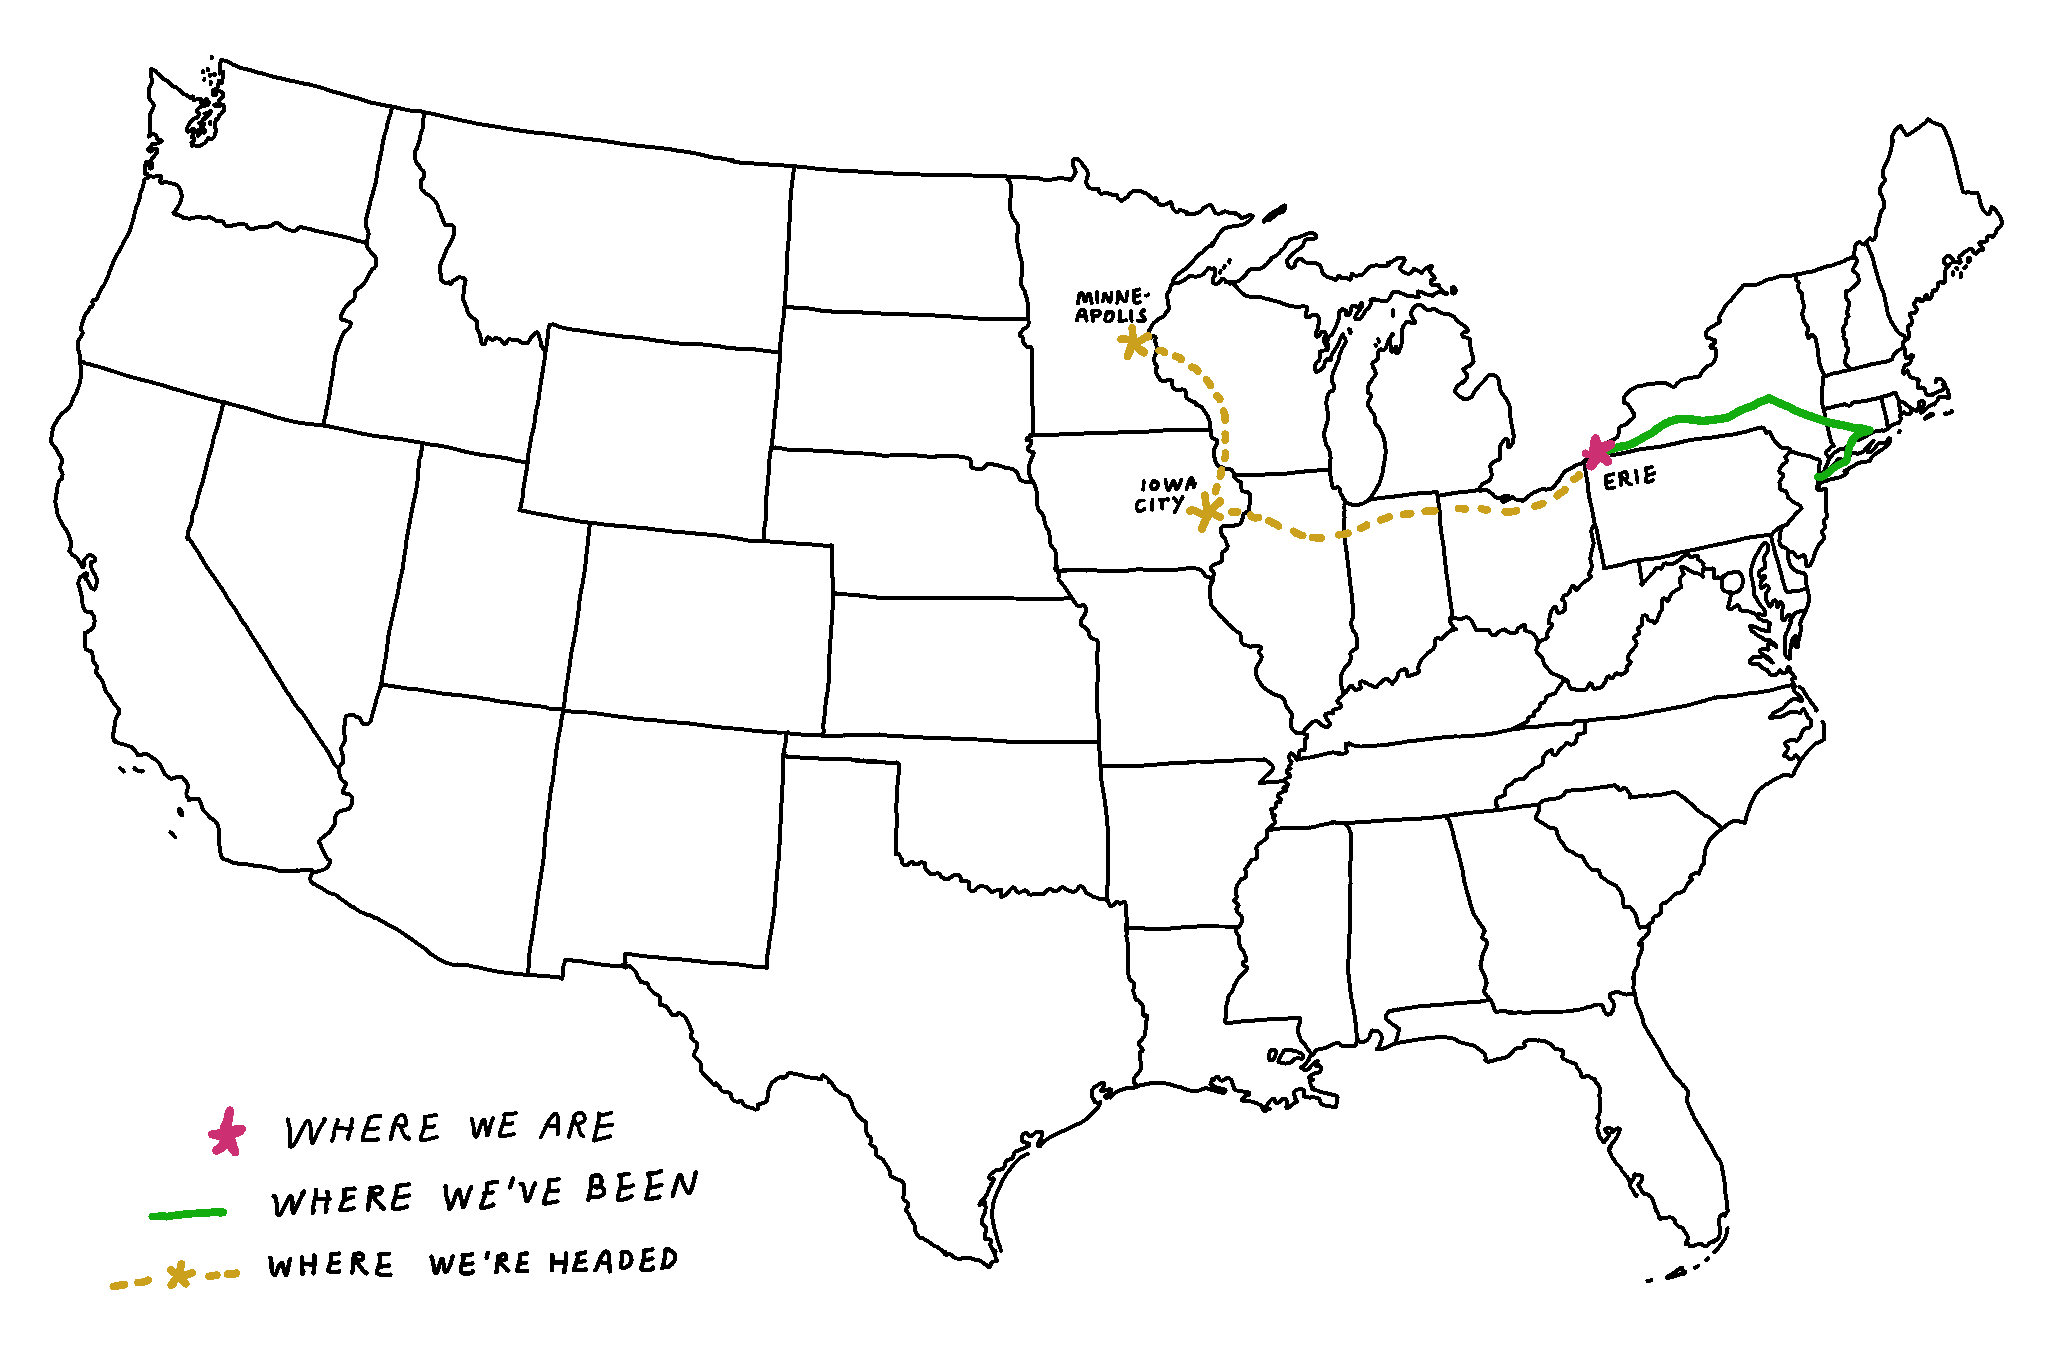
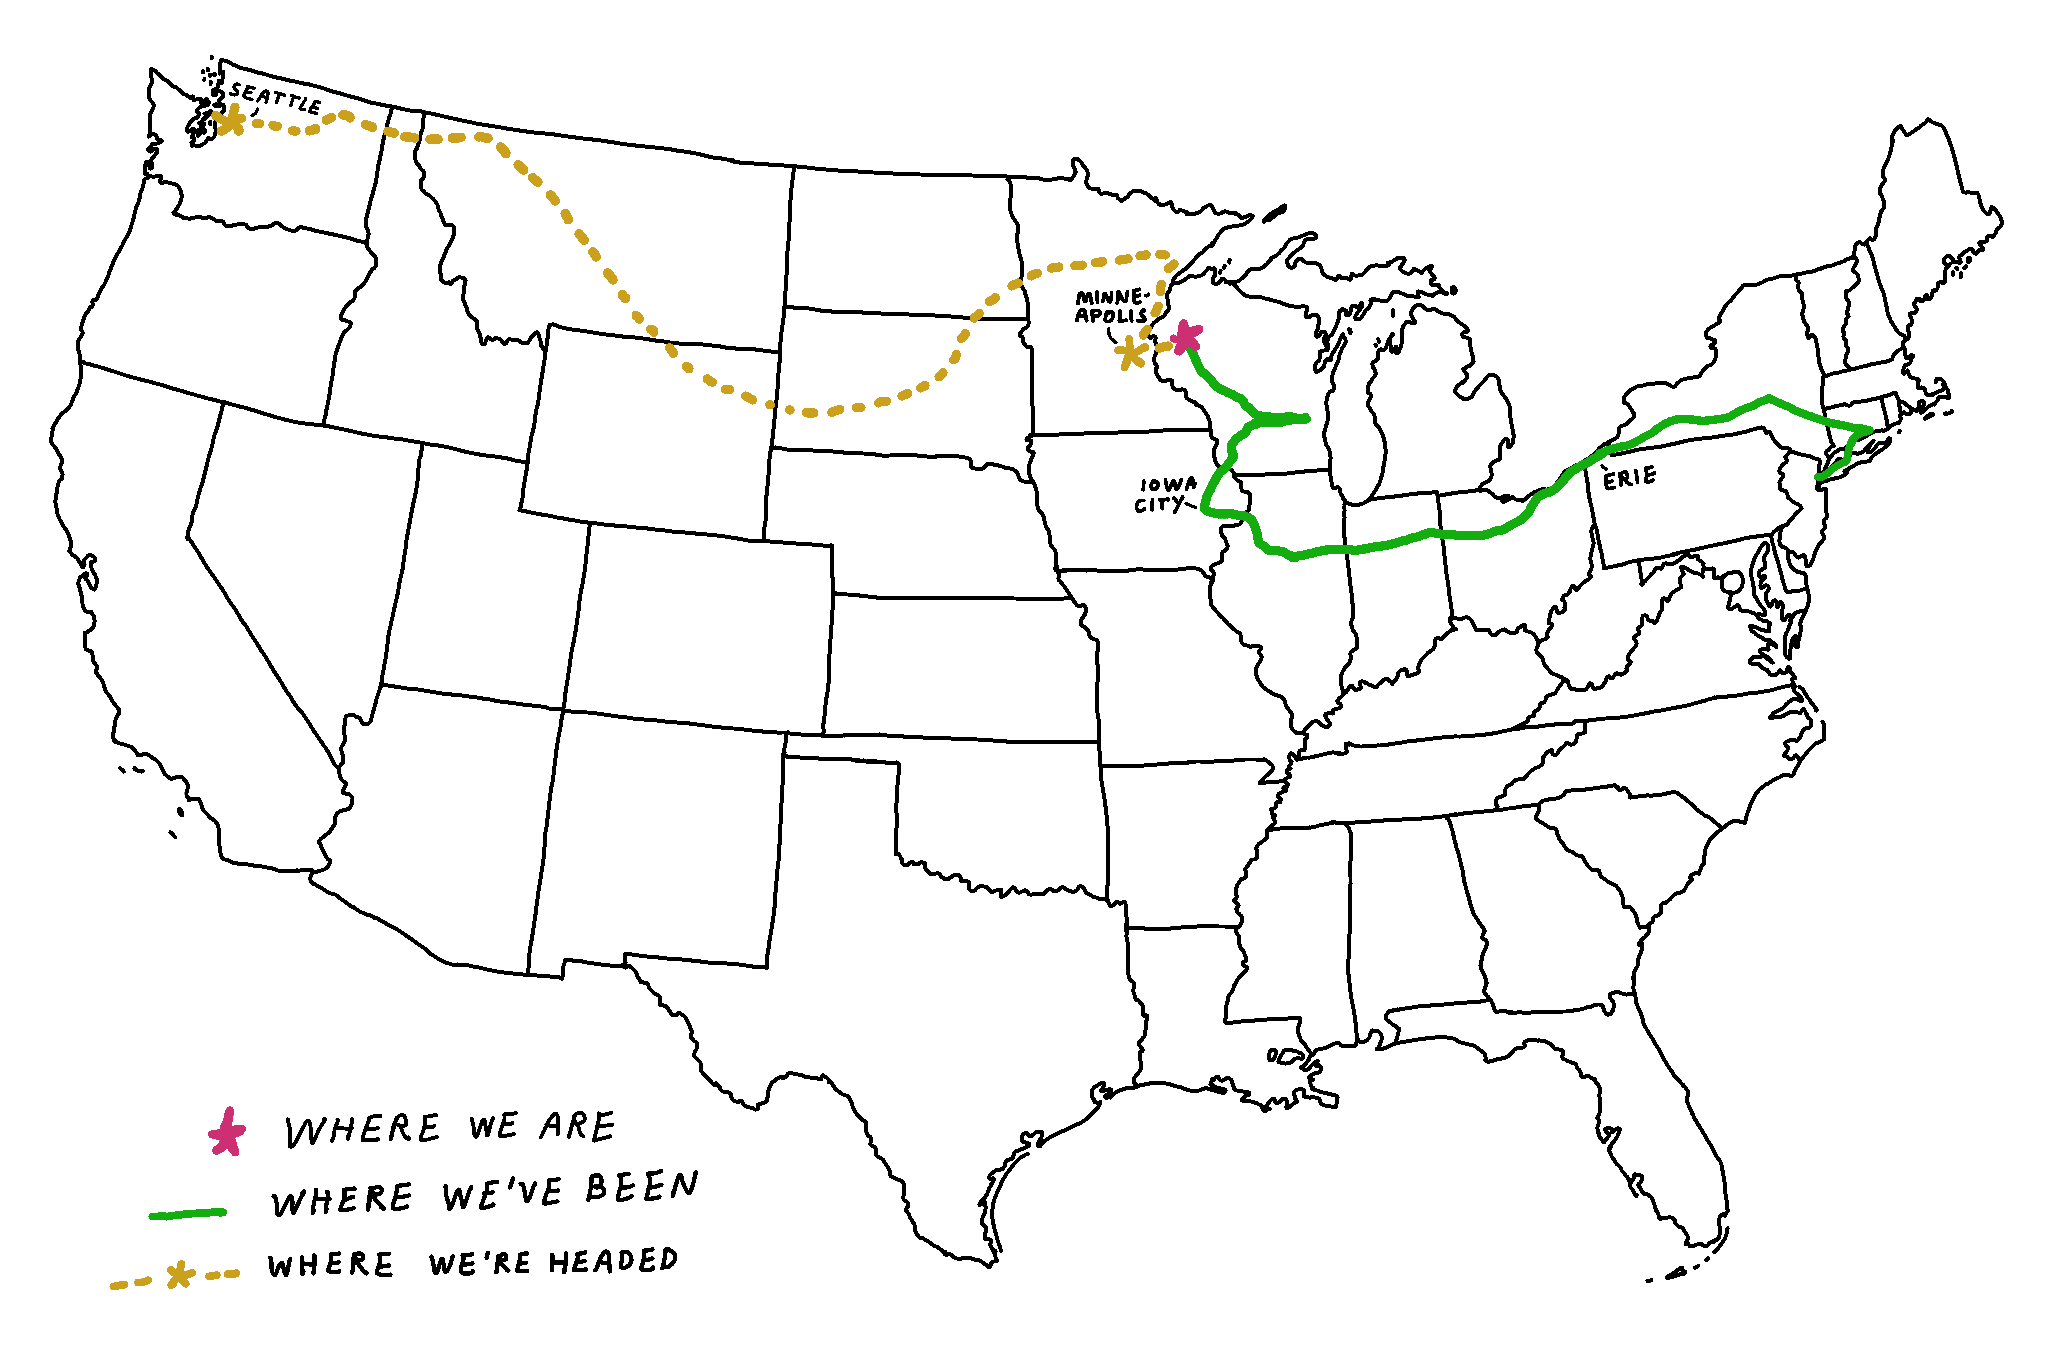
updated map and schedule

diff --git a/map/index.html b/map/index.html
@@ -71,20 +71,41 @@
         <li>
           <b>2023 June 18</b> - Drove to Erie, PA (141 miles)
         </li>
+        <li>
+          <b>2023 June 25</b> - Drove to Lima, OH (268 miles)
+        </li>
+        <li>
+          <b>2023 June 25</b> - Drove to Hudson, IL (294 miles)
+        </li>
+        <li>
+          <b>2023 June 25</b> - Drove to Iowa City, IL (195 miles)
+        </li>
+        <li>
+          <b>2023 July 2</b> - Drove to Cassville, WI (128 miles)
+        </li>
+        <li>
+          <b>2023 July 5</b> - Drove to Spring Green, WI (74 miles)
+        </li>
+        <li>
+          <b>2023 July 6</b> - Drove to Menomonee Falls, WI (112 miles)
+        </li>
+        <li>
+          <b>2023 July 10</b> - Drove to Cumberland, WI (306 miles)
+        </li>
       </ul>
 
       <p>
-        Total miles traveled: <b>668</b>
+        Total miles traveled: <b>2045</b>
         <br />
-        Trip duration so far: <b>20 days</b>
+        Trip duration so far: <b>47 days</b>
         <br />
-        Average miles traveled per day: <b>33.4</b>
+        Average miles traveled per day: <b>43.5</b>
       </p>
 
     </main>
 
     <footer>
-      Last updated: June 19, 2023
+      Last updated: July 16, 2023
     </footer>
 
   </div>

diff --git a/index.html b/index.html
@@ -84,7 +84,16 @@
           <b>2023 September 16</b> - Meetup: Video Mixer at <a href="https://synthlibraryportland.com/" target="_blank">Synth Library Portland</a>, Portland, OR
         </li>
         <li>
-          <b>2023 October 6-8</b> (exact date tbd) - Workshop: Intro to Live Visuals, Eugene, OR
+          <b>2023 September 17</b> - Workshop: Intro to Live Visuals, Portland, OR
+        </li>
+        <li>
+          <b>2023 October 7</b> - Workshop: Intro to Live Visuals at Pinebox Studio, Eugene, OR
+        </li>
+        <li>
+          <b>2023 October 12</b> - Meetup: San Francisco Video Artist Meetup at <a href="https://www.syzygysf.com" target="_blank">Syzygy</a>, San Francisco, CA
+        </li>
+        <li>
+          <b>2023 October 14</b> - Workshop: Intro to Live Visuals at Cat Factory, San Francisco, CA
         </li>
         <li>
           <b>2023 October 19</b> - Workshop at <a href="https://www.indexical.org/" target="_blank">Indexical</a>, Santa Cruz, CA
@@ -120,7 +129,7 @@
     </main>
 
     <footer>
-      Last updated: June 20, 2023
+      Last updated: July 16, 2023
     </footer>
 
   </div>
